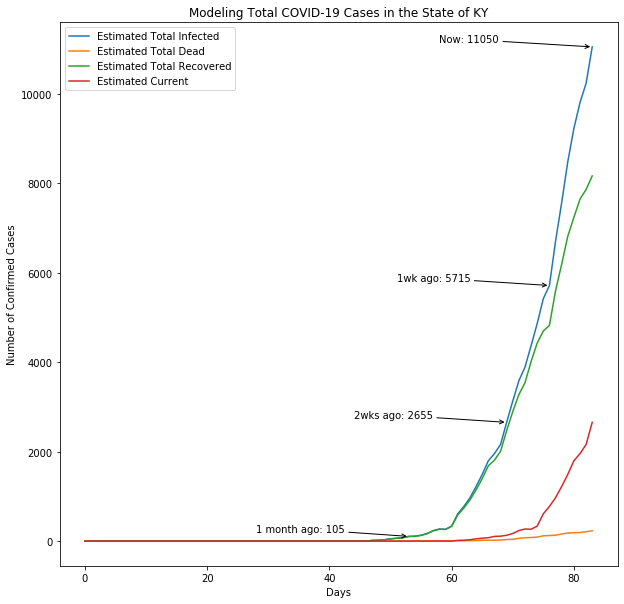
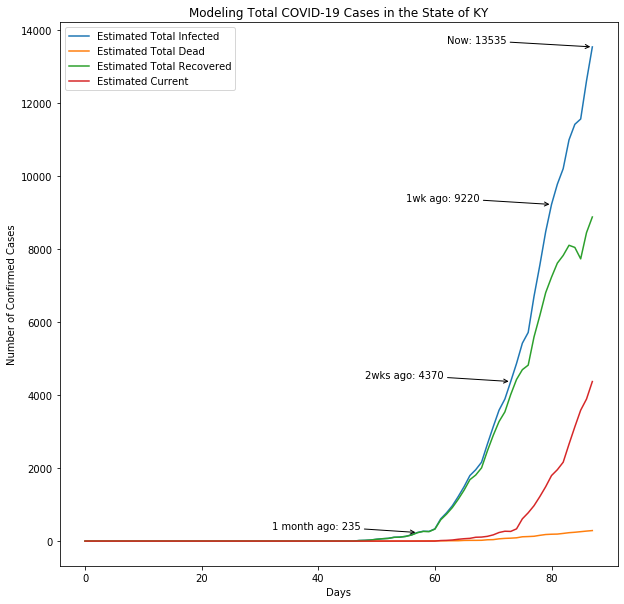
Updated COVID graphics as of 4/19 at 10:11 AM

diff --git a/pages/covid.html b/pages/covid.html
@@ -30,7 +30,7 @@
                 <li>Recovered cases are the total infected minus the total infected cases two weeks ago minus the total infected cases today multiplied by the mortality rate. </li>
                 <li>Mortality rate is used based on the deaths divided by total cases. When used in calculating other values, the most recent estimate is used, as most data is based on cumulative numbers.</li>
             </ol>
-            <p class="project">To the right are visualizations I was able to come up as of April 15, 2020. They will be periodically updated as new data comes in.</p>
+            <p class="project">To the right are visualizations I was able to come up as of April 19, 2020. They will be periodically updated as new data comes in.</p>
             <p class="sources">Sources for data: <br>
 <a href="https://usafacts.org/visualizations/coronavirus-covid-19-spread-map/" target="_blank">Infection & Death Counts</a><br>
 <a href="https://www.who.int/news-room/q-a-detail/q-a-similarities-and-differences-covid-19-and-influenza" target="_blank">WHO</a>
